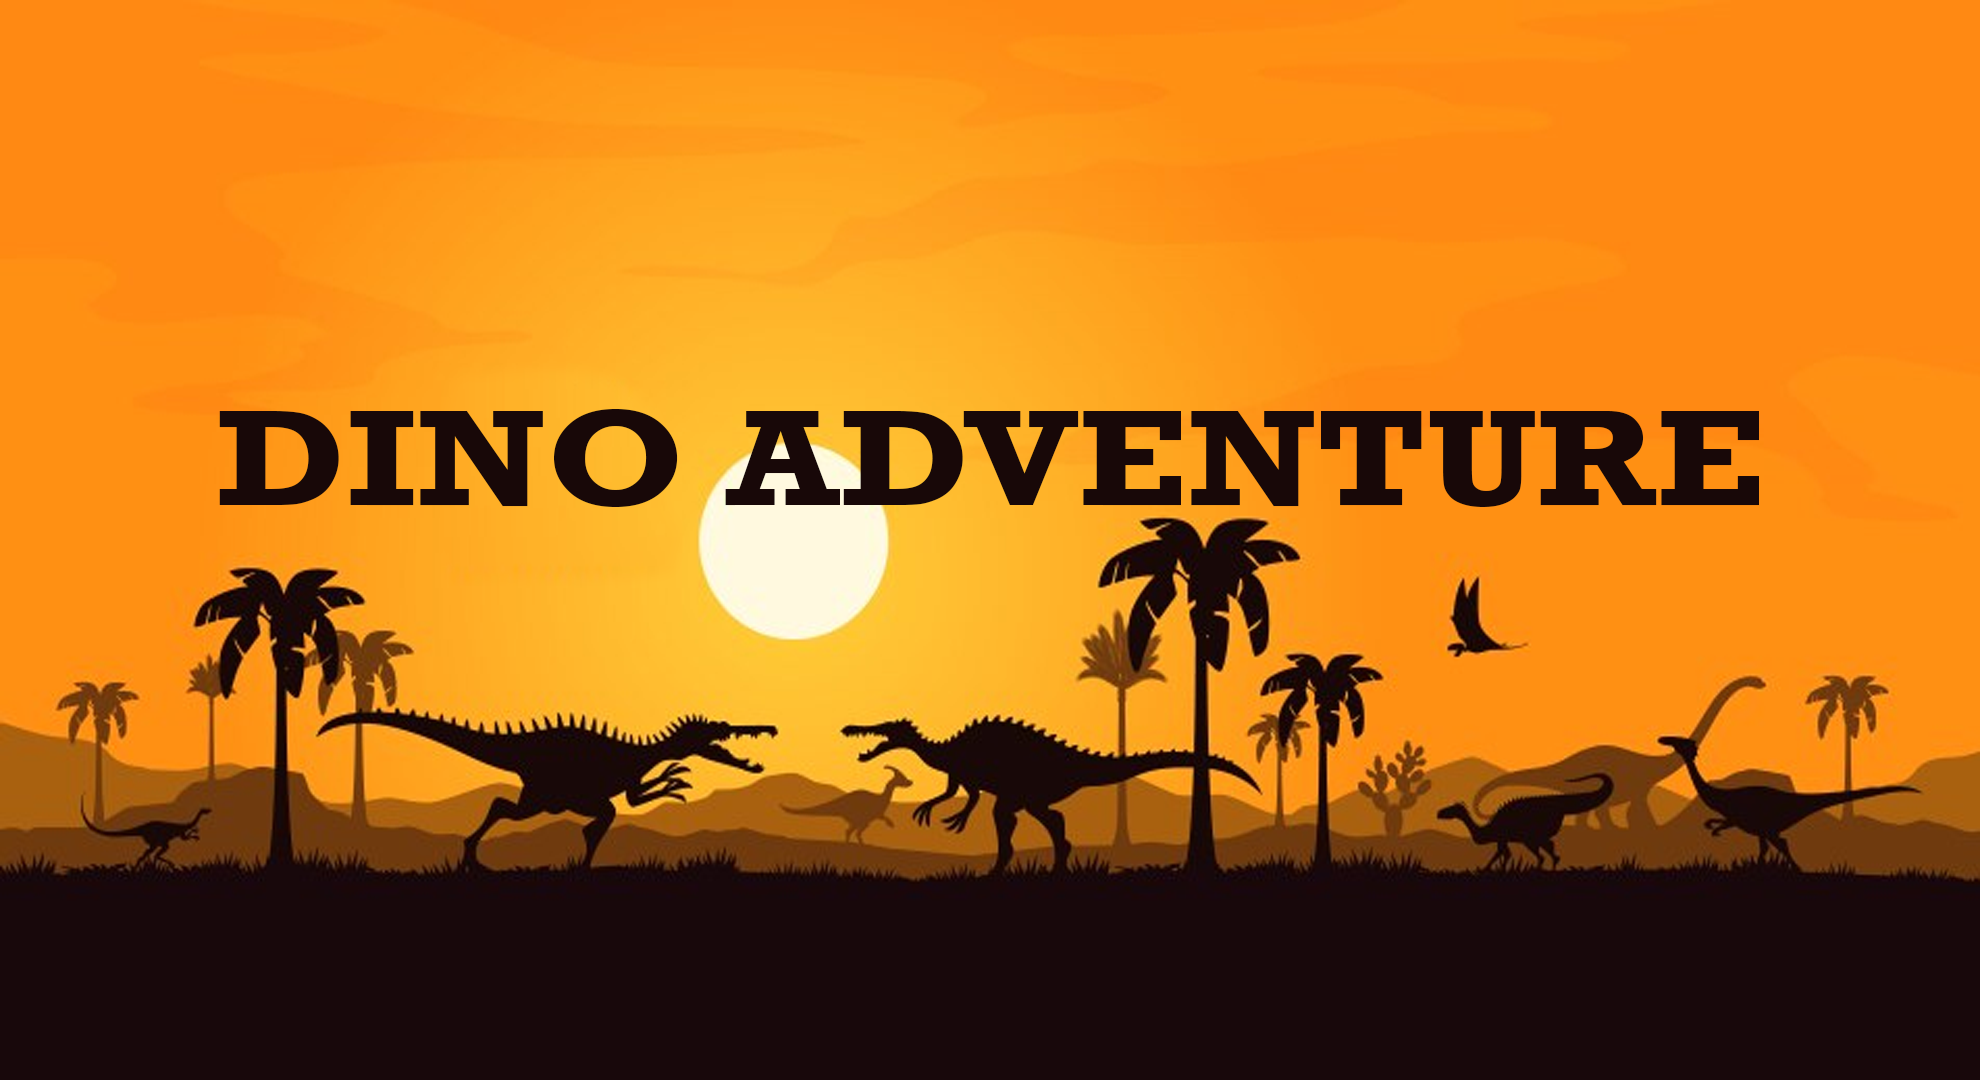
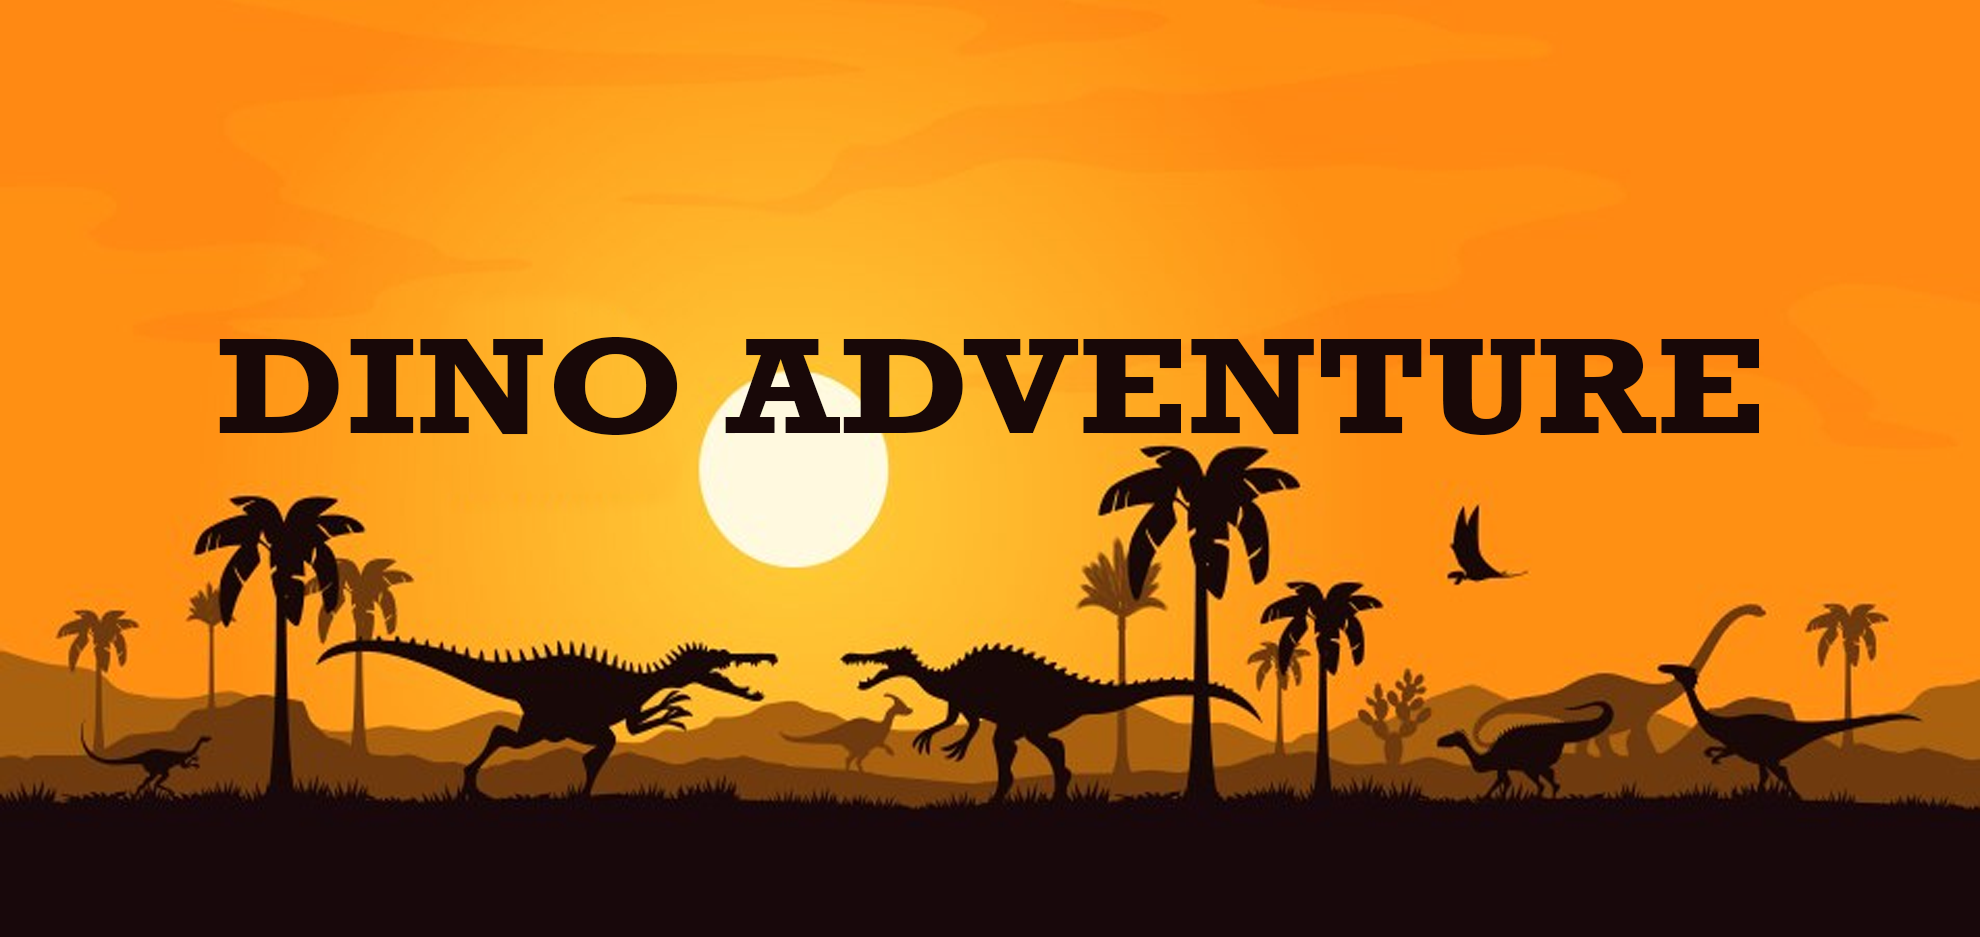
Добавили секцию download

diff --git a/index.html b/index.html
@@ -7,17 +7,43 @@
     <link rel="stylesheet" href="style.css">
 </head>
 <body>
-    <div class="logo">
-        <img src="static/images/logoblack.png" alt="Dino Adventure Logo">
+    <div class="header">
+        <div class="logo">
+            <img src="static/images/logoblack.png" alt="Dino Adventure Logo">
+        </div>
+        <div class="navigation">
+            <a href="#download">DOWNLOAD</a>
+            <a href="#">ABOUT US</a>
+            <a href="#" class="developers">DEVELOPERS</a>
+            <a href="#" class="lang">EN <img src="static/images/langarrow.png" alt="Language Arrow" width="20" height="15"></a>
+        </div>
+        <div class="arrow">
+            <a href="#download"><img src="static/images/arrow.png" alt="Arrow"></a>
+        </div>
     </div>
-    <div class="navigation">
-        <a href="#">DOWNLOAD</a>
-        <a href="#">ABOUT US</a>
-        <a href="#" class="developers">DEVELOPERS</a>
-        <a href="#" class="lang">EN <img src="static/images/langarrow.png" alt="Language Arrow" width="20" height="15"></a>
-    </div>
-    <div class="arrow">
-        <a href="#"><img src="static/images/arrow.png" alt="Arrow"></a>
+
+    <div id="download" class="download">
+        <h1 class="downloadtitle">DOWNLOAD</h1>
+        <div class="laptop-image">
+            <img src="static/images/laptop.png" alt="Laptop Image" class="laptop-image" width="350" height="220">
+            <a href="https://github.com/mykhailoko/Dino-Adventure"><img src="static/images/linux.png" alt="Linux Image" class="linux-image" width="130" height="160"></a>
+            <a href="https://github.com/mykhailoko/Dino-Adventure"><img src="static/images/windows.png" alt="Windows Image" class="windows-image" width="150" height="150"></a>
+            <a href="https://github.com/mykhailoko/Dino-Adventure"><img src="static/images/macos.png" alt="Macos Image" class="macos-image" width="200" height="50"></a>
+        </div>        
+        <div class="phone-image">
+            <img src="static/images/phone.png" alt="Phone Image" class="phone-image1" width="350" height="220">
+            <a href="https://github.com/mykhailoko/Dino-Adventure"><img src="static/images/android.png" alt="Android Image" class="android-image" width="130" height="160"></a>
+            <a href="https://github.com/mykhailoko/Dino-Adventure"><img src="static/images/iphone.png" alt ="Iphone Image" class="iphone-image" width="130" height="160"></a>
+        </div>
+        <div class="laptop-text">
+            <a href="https://github.com/mykhailoko/Dino-Adventure" id="linux">on Linux</a>
+            <a href="https://github.com/mykhailoko/Dino-Adventure" id="windows">on Windows</a>
+            <a href="https://github.com/mykhailoko/Dino-Adventure" id="macos">on MacOS</a>
+        </div>
+        <div class="phone-text">
+            <a href="https://github.com/mykhailoko/Dino-Adventure" id="android">on Android</a>
+            <a href="https://github.com/mykhailoko/Dino-Adventure" id="iphone">on Iphone</a>
+        </div>
     </div>
 </body>
 </html>

diff --git a/style.css b/style.css
@@ -1,16 +1,15 @@
 body {
+    margin: 0;
+    padding: 0;
+}
+
+.header {
     background-image: url(static/images/headerbg.png);
     background-size: cover;
-    background-position: center 11%; 
     margin: 0;
     padding: 0;
     position: relative;
-}
-
-.content {
-    text-align: center;
-    padding: 20px;
-    color: white;
+    padding-bottom: 703px;
 }
 
 .logo {
@@ -48,8 +47,124 @@ body {
 }
 
 .arrow {
-    position: fixed; 
-    left: 50%; 
-    bottom: 20px; 
-    transform: translateX(-50%); 
+    position: absolute;
+    left: 48%; 
+    bottom: 25px; 
+}
+
+.download {
+    background-image: url(static/images/yellowbg.png);
+    background-size: cover; 
+    margin: 0;
+    padding: 0;
+    position: relative;
+}
+
+.downloadtitle {
+    margin: 0px;
+    text-align: center;
+    font-family: Verdana, Geneva, Tahoma, sans-serif;
+    font-size: 45px;
+    padding-top: 60px;
+}
+
+.laptop-image {
+    margin-top: 30px;
+    margin-left: 70px;
+}
+
+.linux-image {
+    position: relative;
+    margin-left: 150px;
+    margin-bottom: 45px;
+}
+
+.windows-image {
+    margin-left: 80px;
+    margin-right: 70px;
+    margin-bottom: 50px;
+}
+
+.macos-image {
+    margin-bottom: 100px;
+}
+
+.phone-image {
+    margin-top: 15px;
+    margin-left: 70px;
+    padding-bottom: 47px;
+}
+
+.phone-image1 {
+    margin-top: 55px;
+    margin-left: 70px;
+    padding-bottom: 47px;
+}
+
+.android-image {
+    margin-left: 150px;
+    margin-right: 10px;
+    margin-bottom: 80px;
+}
+
+.iphone-image {
+    margin-left: 100px;
+    margin-bottom: 90px;
+}
+
+.laptop-text {
+    font-family: Verdana, Geneva, Tahoma, sans-serif;
+    font-size: 28px;
+    color: black;
+    position: absolute;
+    display: flex;
+    margin: 0;
+    padding: 0;
+    margin-left: 550px;
+}
+
+#linux {
+    margin-top: -410px;
+    margin-left: 100px;
+    color: black;
+    text-decoration: none;
+}
+
+#windows {
+    margin-top: -410px;
+    margin-left: 80px;
+    color: black;
+    text-decoration: none;
+}
+
+#macos {
+    margin-top: -410px;
+    margin-left: 90px;
+    color: black;
+    text-decoration: none;
+}
+
+.phone-text {
+    font-family: Verdana, Geneva, Tahoma, sans-serif;
+    font-size: 28px;
+    position: absolute;
+    display: flex;
+    margin: 0;
+    padding: 0;
+    margin-left: 535px;
+    text-decoration: none;
+}
+
+#android {
+    margin-top: -120px;
+    margin-left: 100px;
+    color: black;
+    text-decoration: none;
+}
+
+#iphone {
+    margin-top: -120px;
+    margin-left: 95px;
+    color: black;
+    text-decoration: none;
 }
